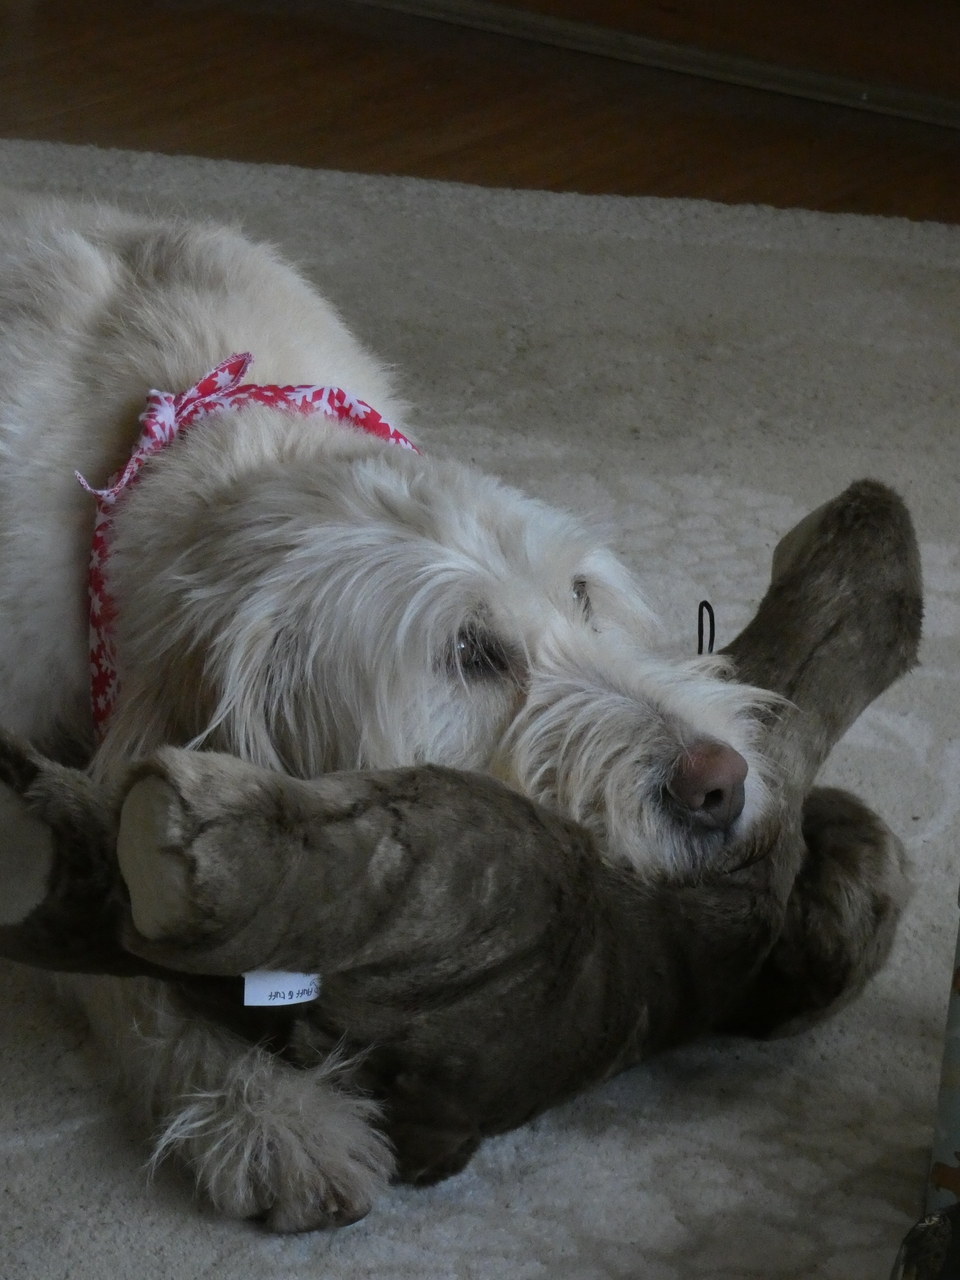
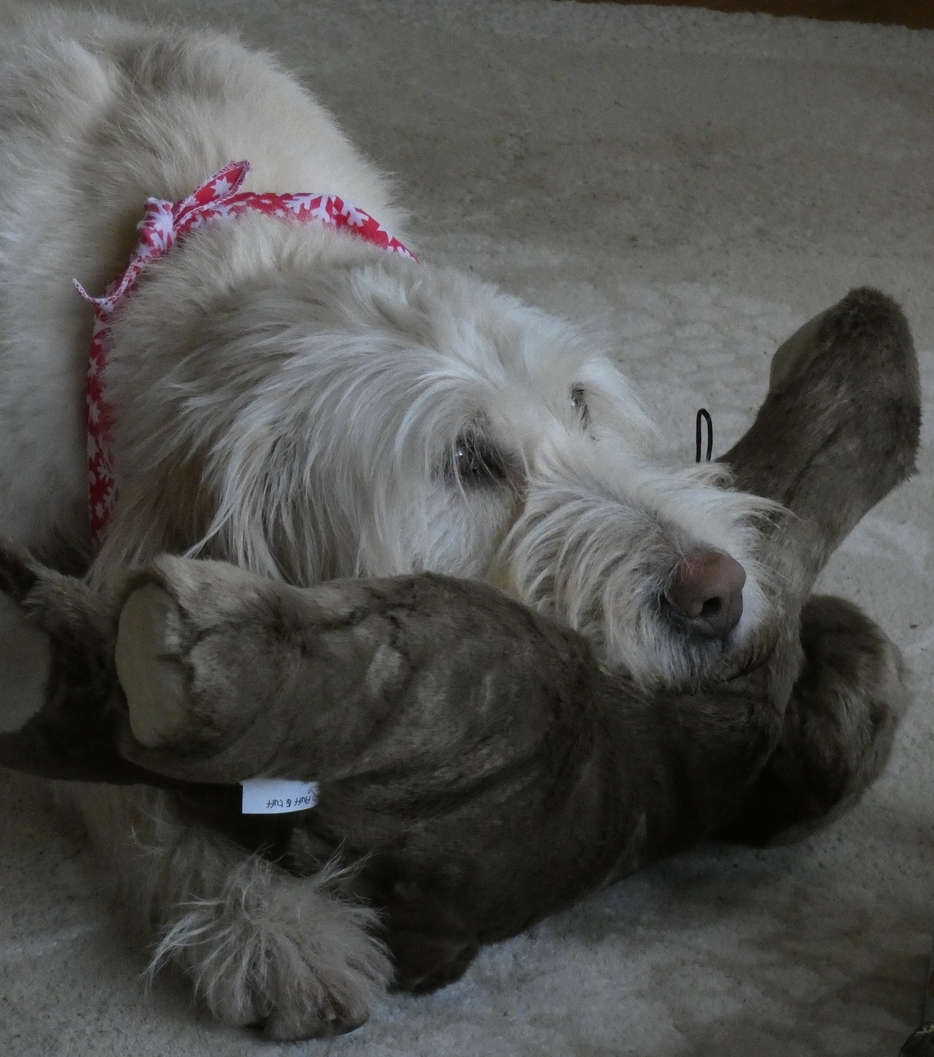
Add files via upload

diff --git a/zelda/index.htm b/zelda/index.htm
@@ -1,8 +1,11 @@
 <!DOCTYPE html PUBLIC "-//W3C//DTD HTML 4.01//EN" "http://www.w3.org/TR/html4/strict.dtd">
 <html><head>
+  
+  <meta content="text/html; charset=ISO-8859-1" http-equiv="content-type">
+  <title>Zelda</title>
 
   
-  <meta content="text/html; charset=ISO-8859-1" http-equiv="content-type"><title>Zelda</title></head><body>
+</head><body>
 <h1 style="font-family: DejaVu Sans;"><big>My Name is Zelda</big></h1>
 
 <table style="text-align: left;" border="0" cellpadding="2" cellspacing="2">
@@ -82,7 +85,8 @@ to do that once I realsied ther luxxury of a VW POllo<br>
       </span> </td>
       <td style="vertical-align: top;"><span style="font-family: DejaVu Sans;">This is me in the New "Master's" VW
 Polo. He very quickly had to get a new car <br>
-because of me. Please iggnore wjhat I saud about the Luxxury of the Pollo.<br>
+because of me. Please iggnore wjhat I saud about the Luxxury of the
+Pollo.<br>
 after I brokkke the Neww Master's coffeec cup holder we gnew a bigger <br>
 car was on the cards<br>
       </span> </td>
@@ -195,7 +199,7 @@ langbank<br>
     <tr>
       <td style="vertical-align: top;"><big><big><span style="font-family: DejaVu Sans;">This is me with the night of my
 drifve upo from<br>
- nottingham. the new opnwers thought that my <br>
+nottingham. the new opnwers thought that my <br>
 aroma was
 not of the best. so they givved me a <br>
 bIath. I thought i smelled Ok - but I thought I had <br>
@@ -209,15 +213,16 @@ can see I liked the bed !<br>
       </td>
     </tr>
     <tr>
-      <td style="vertical-align: top;"><img style="width: 693px; height: 924px;" src="baloo2.jpg"><br>
+      <td style="vertical-align: top;"><img style="width: 695px; height: 788px;" alt="hthrt" src="baloo2.jpg"><br>
       </td>
-      <td style="vertical-align: top;"><img style="width: 920px; height: 690px;" alt="christmas" src="1christmas.jpg"><br>
+      <td style="vertical-align: top;"><img style="width: 1053px; height: 790px;" alt="christmas" src="1christmas.jpg"><br>
       </td>
     </tr>
     <tr>
       <td style="vertical-align: top;"><span style="font-family: DejaVu Sans;"><big><big>Hewre is one of my toys.
 he is a
-bear callded Baloo</big></big><br>
+bear callded <br>
+Baloo</big></big><br>
       <br>
       </span><span style="font-family: DejaVu Sans;"><br>
       </span> </td>
@@ -417,29 +422,34 @@ and music. The y&nbsp; never seem to emntion Georhi JHAJI thouhg.</span></big><b
       <big><span style="font-family: DejaVu Sans;"></span></big></div>
       </td>
       <td style="vertical-align: top;">
-      <div style="text-align: right;"><img style="width: 617px; height: 499px;" alt="coco" src="3coco_jess.jpg" align="left"><big><span style="font-family: DejaVu Sans;">This dog id cvaaled Coco and Jess. Tyhey are spaniles. As you an see they run about like dervishes ?</span></big><br>
-      <big><span style="font-family: DejaVu Sans;">Can I still say Dervish ?</span></big><br>
+      <div style="text-align: right;"><img style="width: 617px; height: 499px;" alt="coco" src="3coco_jess.jpg" align="left"><big><span style="font-family: DejaVu Sans;">This dog id
+cvaaled Coco and Jess. Tyhey are spaniles. As you an see they run about
+like dervishes ?</span></big><br>
+      <big><span style="font-family: DejaVu Sans;">Can I still say
+Dervish ?</span></big><br>
       <big><span style="font-family: DejaVu Sans;"></span></big></div>
-
       </td>
-    </tr><tr>
+    </tr>
+    <tr>
       <td style="vertical-align: top;"><img style="width: 792px; height: 490px;" alt="dog" src="IMG_20230224_152024478_HDR.resized.jpg"><br>
       </td>
       <td style="vertical-align: top;"><img style="width: 616px; height: 504px;" alt="dogg" src="IMG_20230224_151728752_HDR.resized.jpg"><br>
       </td>
     </tr>
     <tr>
-      <td style="vertical-align: top;"><big><span style="font-family: DejaVu Sans;">this dogs ias called sandy. he is golden teretreiver. where does he retrieve gold from ?</span><br style="font-family: DejaVu Sans;">
-      <span style="font-family: DejaVu Sans;">i hjust retrievce balls and sticks</span></big><br>
+      <td style="vertical-align: top;"><big><span style="font-family: DejaVu Sans;">this dogs ias called sandy. he is
+golden teretreiver. where does he retrieve gold from ?</span><br style="font-family: DejaVu Sans;">
+      <span style="font-family: DejaVu Sans;">i hjust retrievce balls
+and sticks</span></big><br>
       </td>
-      <td style="vertical-align: top;"><big><span style="font-family: DejaVu Sans;">this dogs ias called Mosca. she ois border cvollie. so the nboreder <br>
+      <td style="vertical-align: top;"><big><span style="font-family: DejaVu Sans;">this dogs ias called Mosca. she ois
+border cvollie. so the nboreder <br>
 it the one bewteen scotlands and englans<br>
 i don'tr know mnauch about englwnad - althoyug is was there once<br>
 in a car park in nottinghsamd.<br>
 it was a great day. i was tooked straight so cascotland.<br>
-</span></big></td>
+      </span></big></td>
     </tr>
-
   </tbody>
 </table>
 
